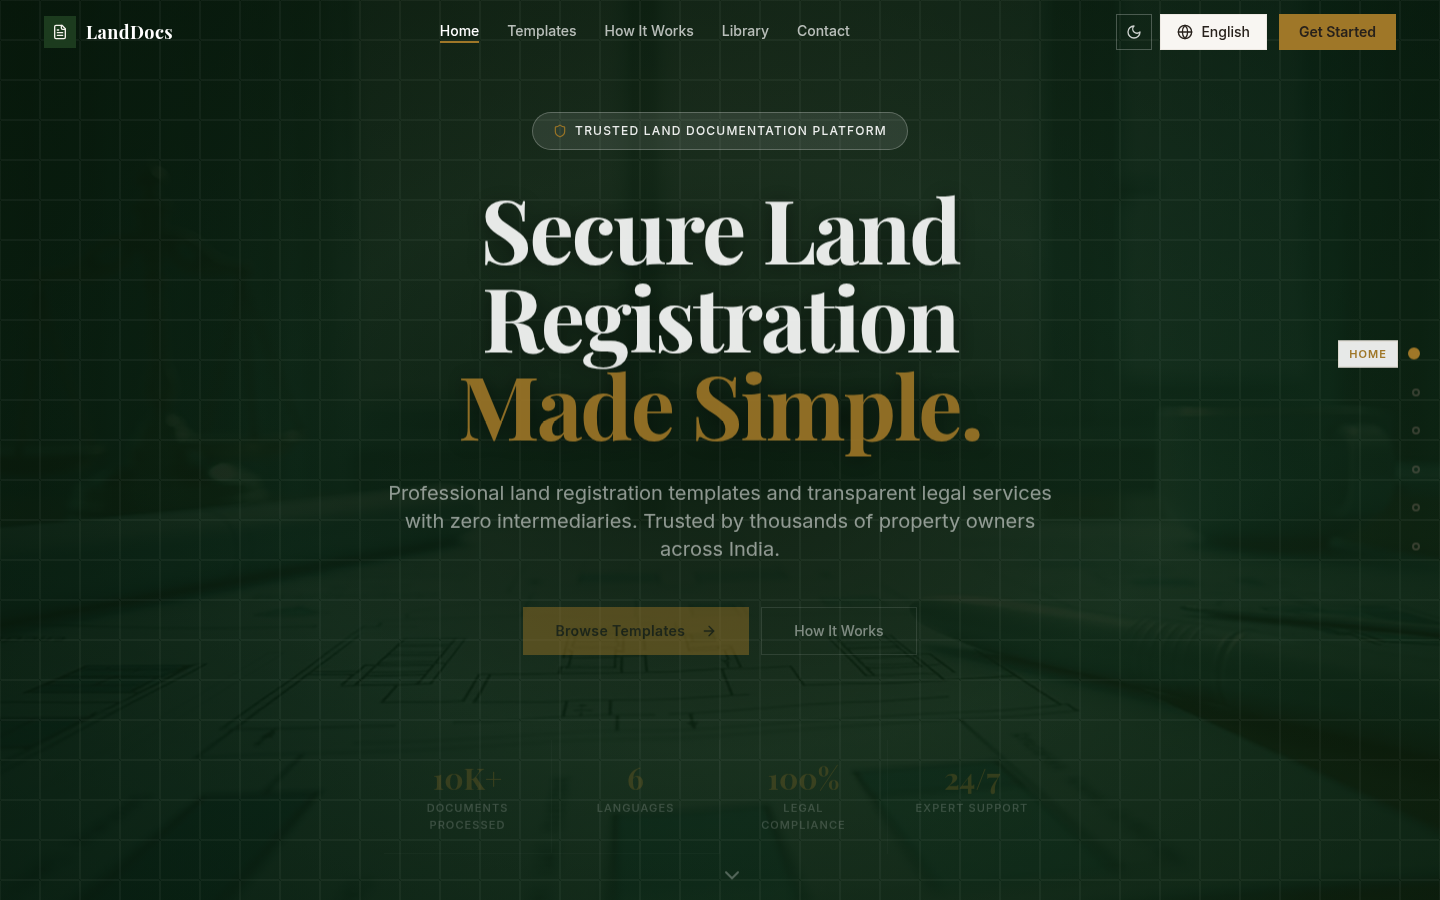
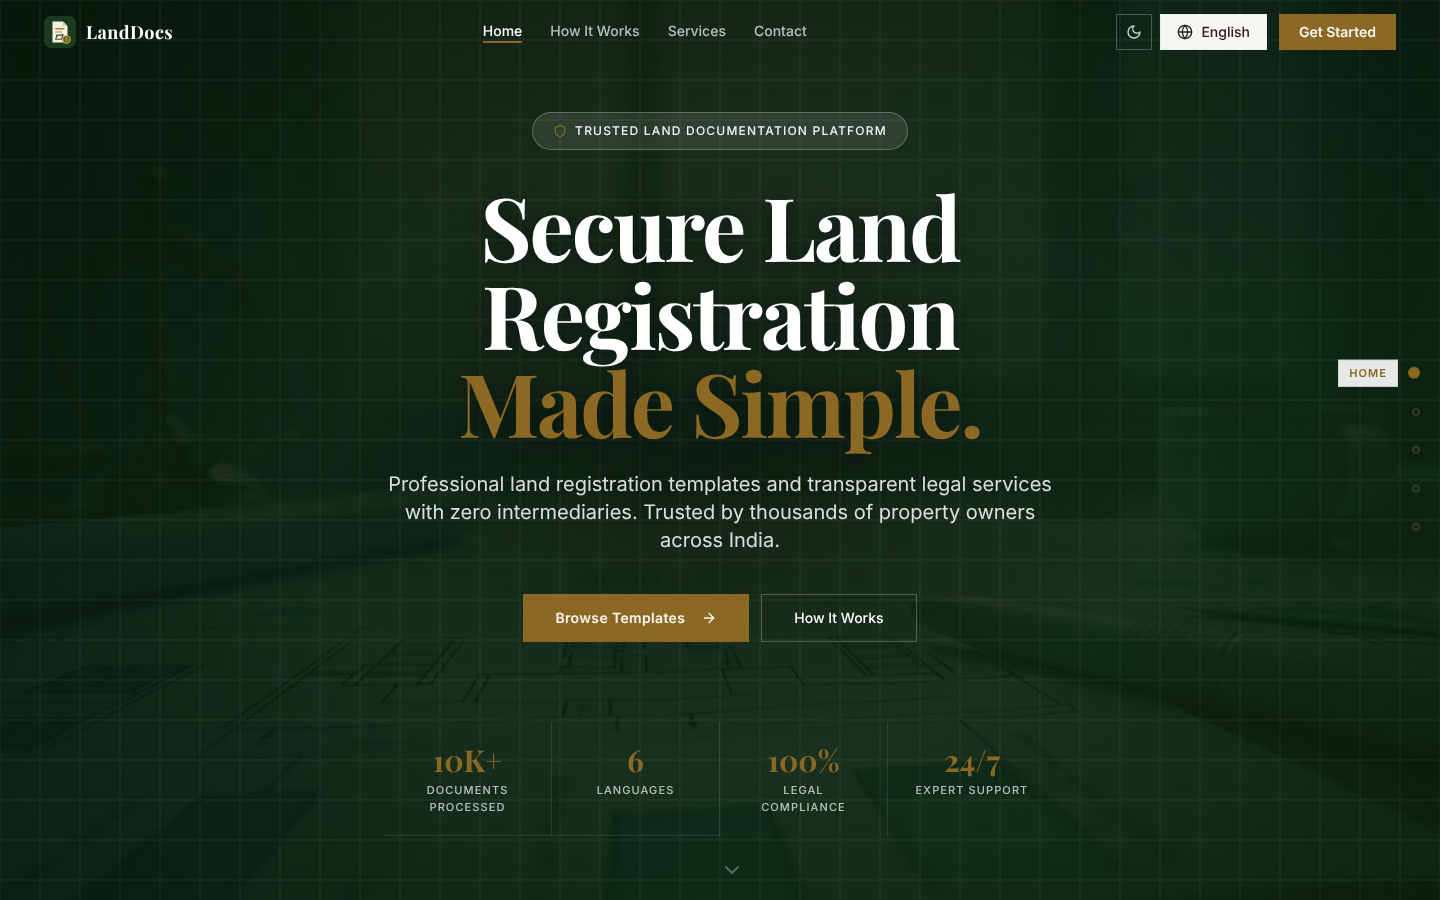
Update README previews with current website snapshots
Claude-Session: https://claude.ai/code/session_012aS4f3HZB1SmCgzkEUwyxe

diff --git a/README.md b/README.md
@@ -10,9 +10,9 @@
 
 ![LandDocs — desktop view](docs/preview-desktop.png)
 
-**Document Library**
+**Services & Document Downloads**
 
-![LandDocs — document library](docs/preview-library.png)
+![LandDocs — services and document downloads](docs/preview-library.png)
 
 **Mobile**
 
